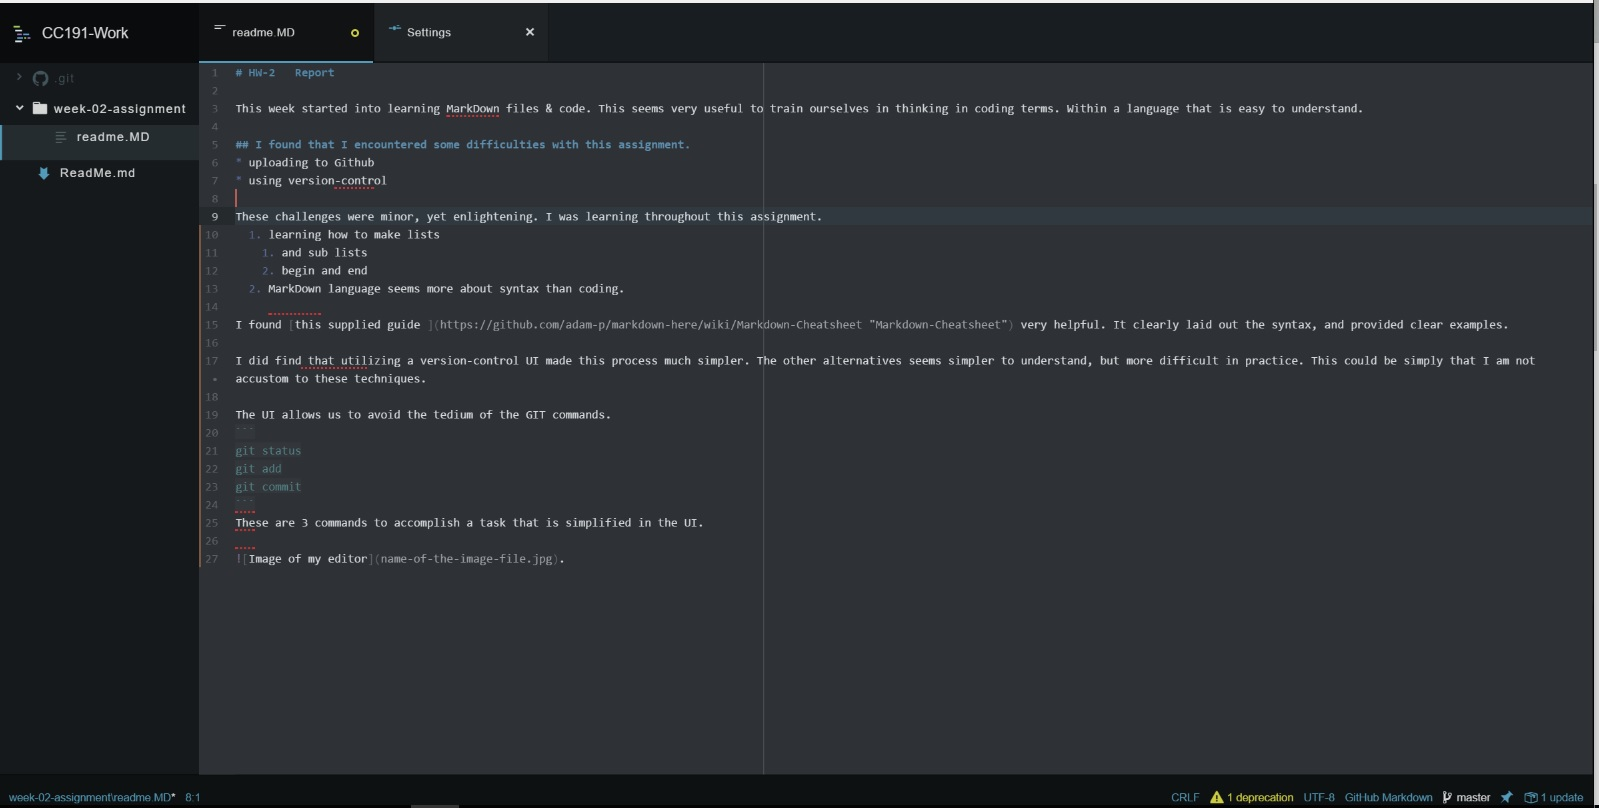
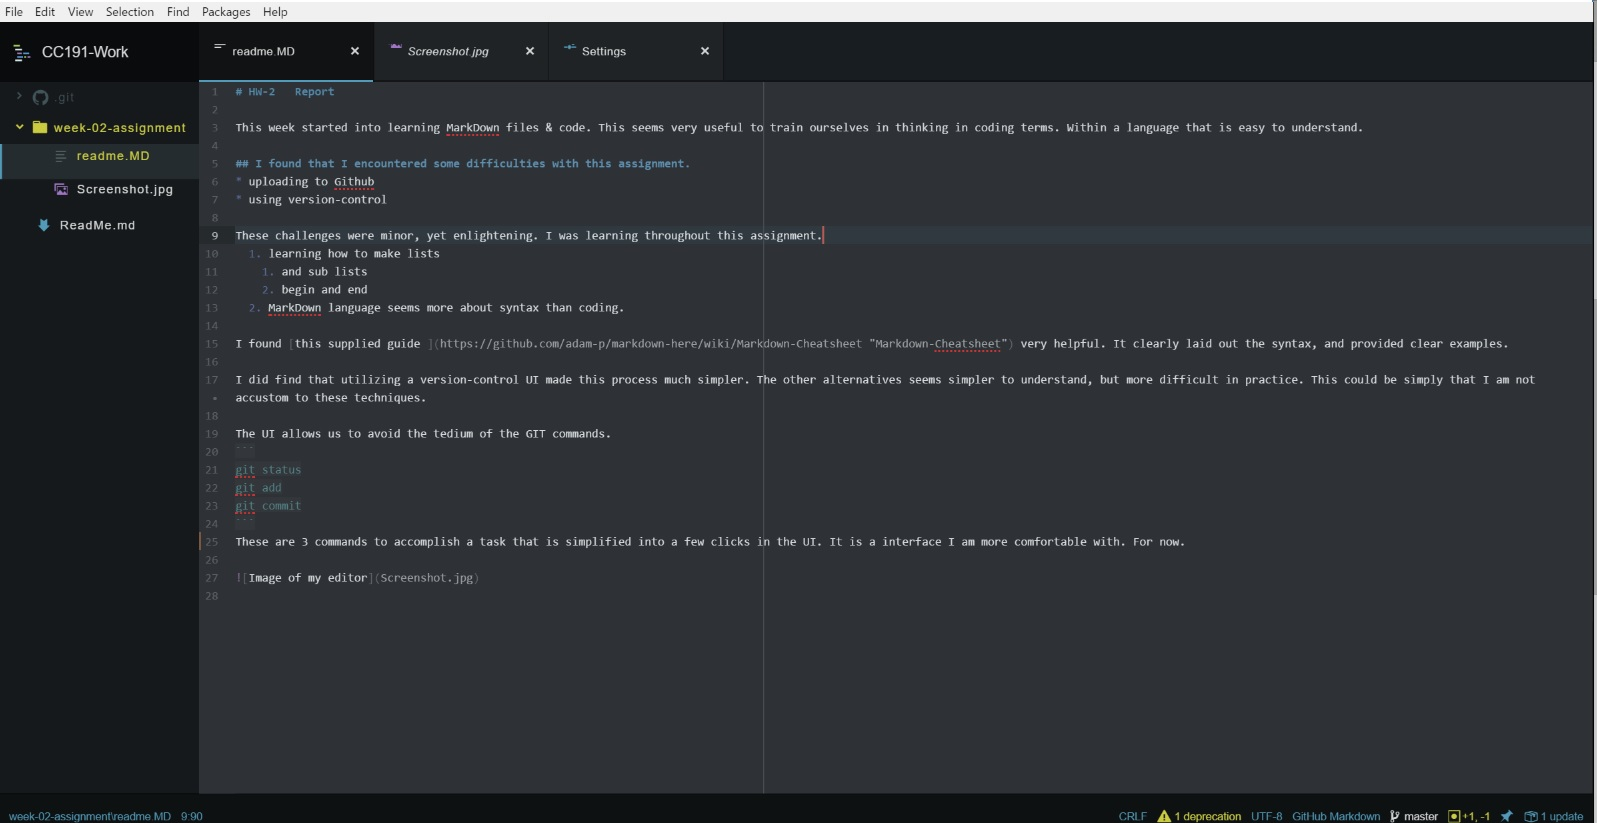
Last few fixes

Changed region(s): [[0.0, 0.0, 1.0, 1.0], [0.5523, 0.6498, 0.7364, 0.6807], [0.3682, 0.0619, 0.3989, 0.0928]]

diff --git a/week-02-assignment/readme.MD b/week-02-assignment/readme.MD
@@ -22,6 +22,6 @@ git status
 git add
 git commit
 ```
-These are 3 commands to accomplish a task that is simplified in the UI.
+These are 3 commands to accomplish a task that is simplified into a few clicks in the UI. It is a interface I am more comfortable with. For now.
 
 ![Image of my editor](Screenshot.jpg)
